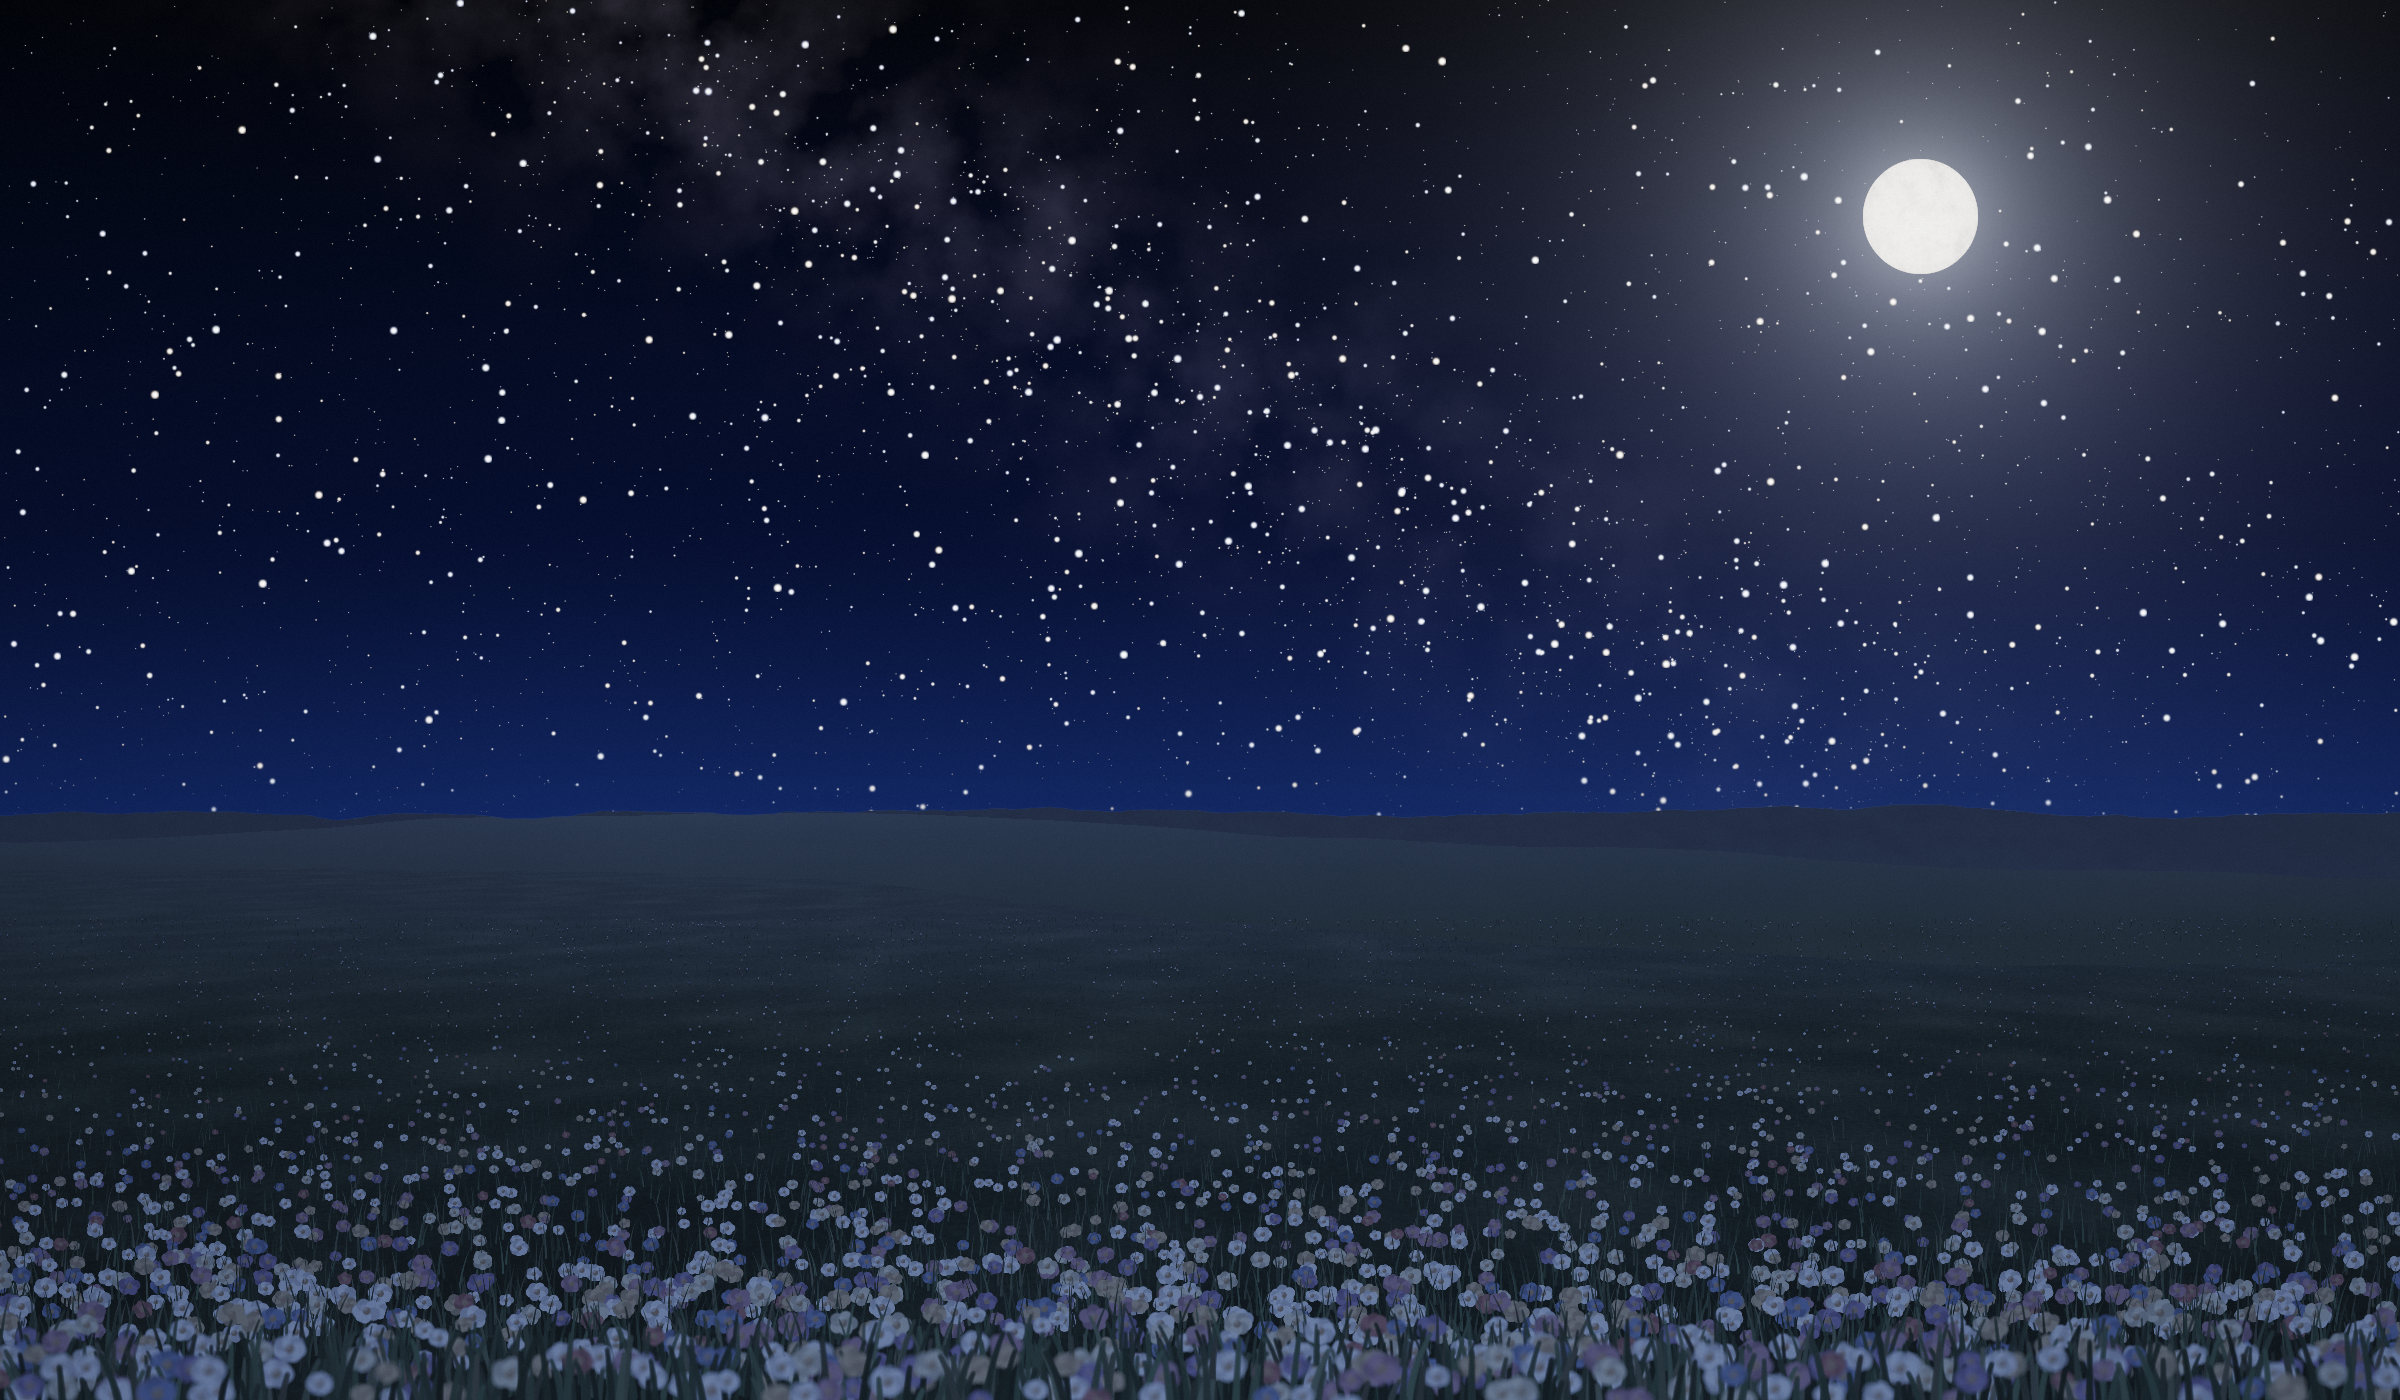
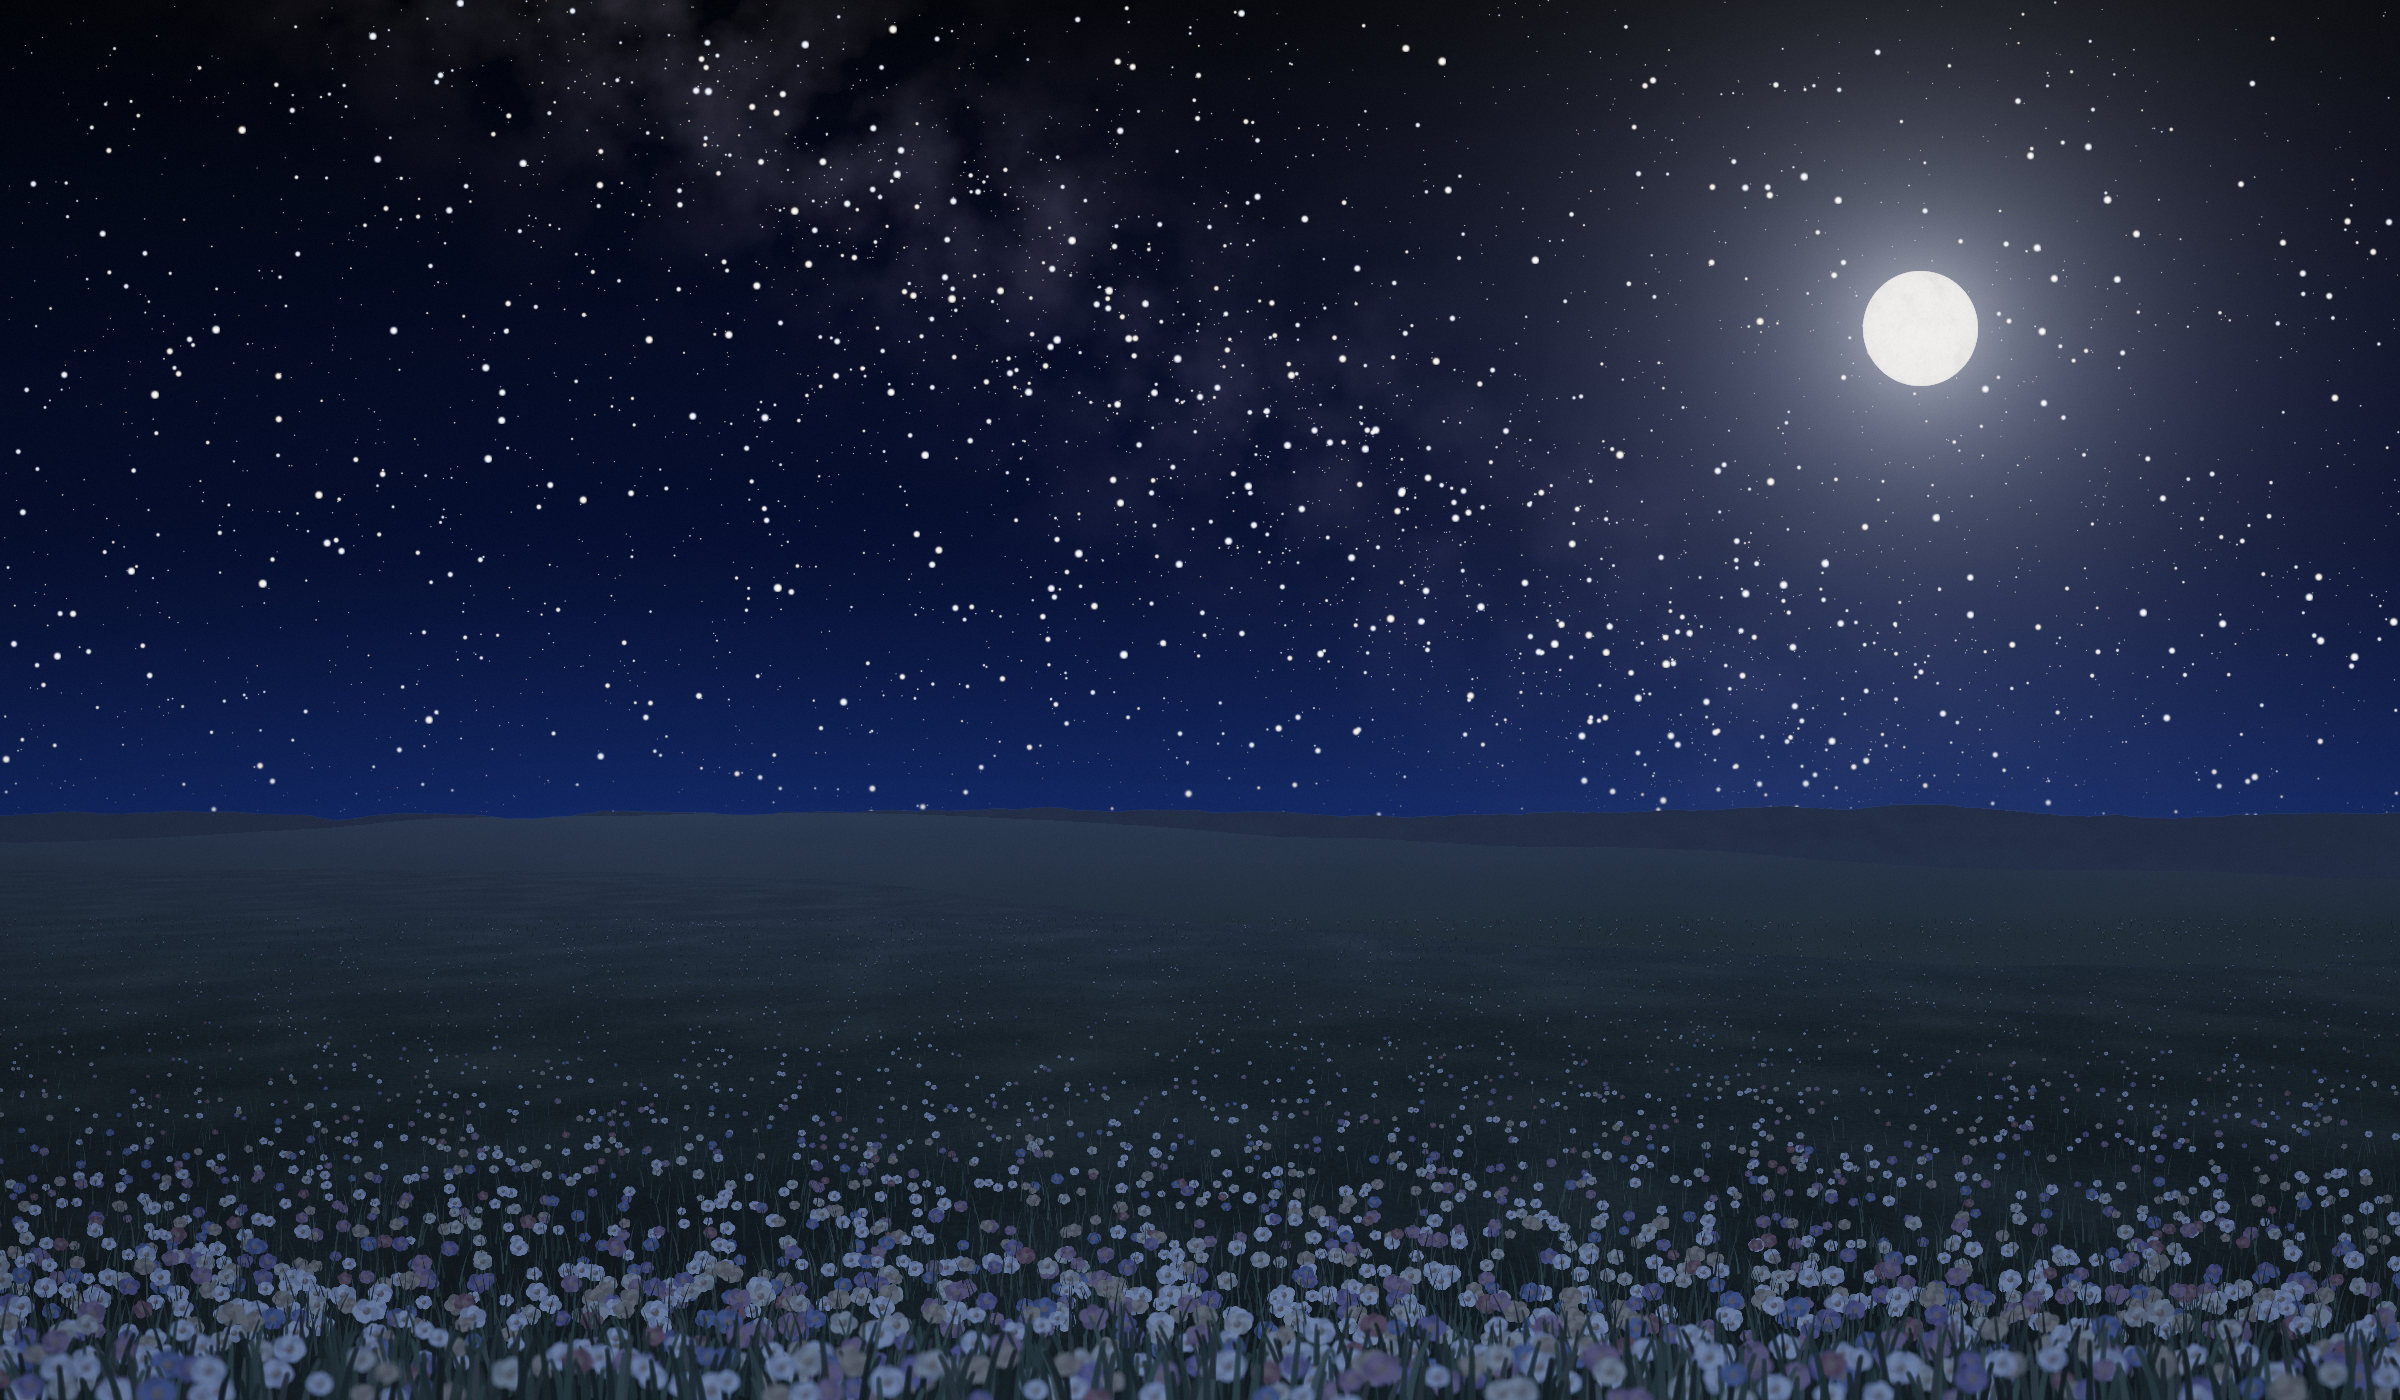
Let the meadow fill the whole background, day and night
The scene now covers the hero edge to edge (and the whole app behind the
sidebar) instead of fading in from the right. A soft veil behind the copy
keeps the text readable; the sun and moon sit lower so the crop never cuts
them, and more of the flowers show.

Claude-Session: https://claude.ai/code/session_015ftdKcfbXQbxwuGXRg3nNj

Changed region(s): [[0.7188, 0.0, 0.875, 0.3993]]

diff --git a/seekr-site/public/styles.css b/seekr-site/public/styles.css
@@ -106,17 +106,16 @@ button { cursor: pointer; }
 .hero h1 > span { display: block; white-space: nowrap; }
 .hero p { font-size: 20px; color: var(--text); max-width: 640px; margin: 0 0 40px; line-height: 1.55; }
 .hero-cta { display: flex; gap: 14px; }
-/* the header art: a blue sky over a field, on the right, fading into the page */
-.sky { position: absolute; inset: 0 0 0 38%; z-index: 0; pointer-events: none;
-  -webkit-mask-image: radial-gradient(120% 95% at 82% 45%, #000 40%, transparent 78%);
-  mask-image: radial-gradient(120% 95% at 82% 45%, #000 40%, transparent 78%); }
-.sky img { position: absolute; inset: 0; width: 100%; height: 100%; object-fit: cover; object-position: 60% 40%; transition: opacity .6s ease; }
+/* the header art: the meadow fills the whole hero, edge to edge; a soft veil
+   behind the copy keeps the text readable, and the bottom melts into the page */
+.sky { position: absolute; inset: 0; z-index: 0; pointer-events: none; overflow: hidden; }
+.sky img { position: absolute; inset: 0; width: 100%; height: 100%; object-fit: cover; object-position: 60% 62%; transition: opacity .6s ease; }
 .sky img.night { opacity: 0; }
 :root[data-theme="dark"] .sky img.day { opacity: 0; }
 :root[data-theme="dark"] .sky img.night { opacity: 1; }
 .sky::after { z-index: 1; }
 .sky-fx { position: absolute; inset: 0; width: 100%; height: 100%; z-index: 2; pointer-events: none; }
-:root[data-theme="light"] .sky::after { background: linear-gradient(90deg, var(--bg) 0%, transparent 38%), linear-gradient(0deg, var(--bg) 0%, transparent 26%); }
+:root[data-theme="light"] .sky::after { background: linear-gradient(90deg, rgba(247, 248, 251, .82) 0%, rgba(247, 248, 251, .55) 34%, rgba(247, 248, 251, 0) 62%), linear-gradient(0deg, var(--bg) 0%, rgba(247, 248, 251, 0) 8%); }
 :root[data-theme="light"] .grid-lines { background-image: linear-gradient(90deg, rgba(11, 15, 26, .05) 1px, transparent 1px); }
 .theme-btn { width: 38px; height: 38px; border-radius: 999px; border: 1px solid var(--line); background: var(--card); color: var(--ink); display: inline-flex; align-items: center; justify-content: center; }
 .theme-btn:hover { border-color: var(--line-2); }
@@ -124,7 +123,8 @@ button { cursor: pointer; }
 .theme-btn .i-moon { display: none; }
 :root[data-theme="dark"] .theme-btn .i-sun { display: none; }
 :root[data-theme="dark"] .theme-btn .i-moon { display: block; }
-.sky::after { content: ''; position: absolute; inset: 0; background: linear-gradient(90deg, var(--bg) 0%, transparent 42%), linear-gradient(0deg, var(--bg) 0%, transparent 34%); }
+.sky::after { content: ''; position: absolute; inset: 0; background: linear-gradient(90deg, rgba(10, 10, 10, .7) 0%, rgba(10, 10, 10, .42) 34%, rgba(10, 10, 10, 0) 62%), linear-gradient(0deg, var(--bg) 0%, rgba(10, 10, 10, 0) 8%); }
+.grid-lines { display: none; }
 .grid-lines { position: absolute; inset: 0; z-index: 0; pointer-events: none; background-image: linear-gradient(90deg, rgba(255, 255, 255, .045) 1px, transparent 1px); background-size: 240px 100%; background-position: 60px 0;
   -webkit-mask-image: linear-gradient(180deg, #000, transparent 85%); mask-image: linear-gradient(180deg, #000, transparent 85%); }
 .hero-copy { position: relative; z-index: 1; }
@@ -297,7 +297,9 @@ textarea.input { height: auto; padding: 12px 14px; resize: vertical; }
 .side-foot { display: flex; gap: 4px; padding: 10px 2px 0; }
 
 .main { position: relative; overflow: hidden; min-height: 100vh; }
-.main .sky { inset: -6% -12% 0 46%; opacity: .85; -webkit-mask-image: radial-gradient(110% 100% at 85% 45%, #000 45%, transparent 80%); mask-image: radial-gradient(110% 100% at 85% 45%, #000 45%, transparent 80%); }
+.main .sky { position: fixed; left: 210px; right: 0; top: 0; bottom: 0; }
+.main .sky::after { background: radial-gradient(60% 75% at 50% 42%, rgba(10, 10, 10, .55) 0%, rgba(10, 10, 10, 0) 80%); }
+:root[data-theme="light"] .main .sky::after { background: radial-gradient(60% 75% at 50% 42%, rgba(247, 248, 251, .7) 0%, rgba(247, 248, 251, 0) 80%); }
 .main .grid-lines { background-size: 140px 100%; }
 .stage { position: relative; z-index: 1; max-width: 640px; margin: 0 auto; padding: 70px 24px 80px; }
 .stage-logo { display: flex; align-items: baseline; gap: 4px; font-size: 42px; font-weight: 700; letter-spacing: -.02em; margin-bottom: 6px; }
@@ -461,10 +463,11 @@ textarea.input { height: auto; padding: 12px 14px; resize: vertical; }
 @media (max-width: 1100px) {
   .hero h1 { font-size: 52px; }
   .prices { position: relative; right: auto; bottom: auto; width: 100%; margin-top: 40px; }
-  .sky { inset: 0 0 auto 0; height: 60%; -webkit-mask-image: linear-gradient(180deg, #000 30%, transparent); mask-image: linear-gradient(180deg, #000 30%, transparent); opacity: .55; }
-  .sky::after { background: linear-gradient(0deg, var(--bg) 0%, transparent 50%); }
+  .sky::after { background: linear-gradient(180deg, rgba(10, 10, 10, .55) 0%, rgba(10, 10, 10, .35) 55%, var(--bg) 100%); }
+  :root[data-theme="light"] .sky::after { background: linear-gradient(180deg, rgba(247, 248, 251, .68) 0%, rgba(247, 248, 251, .4) 55%, var(--bg) 100%); }
 }
 @media (max-width: 860px) {
+  .main .sky { left: 0; }
   .nav-links { display: none; position: absolute; top: 90px; left: 0; right: 0; background: var(--bg); border-bottom: 1px solid var(--line); flex-direction: column; gap: 0; padding: 8px 16px 16px; }
   .nav-links.open { display: flex; }
   .nav-links a { padding: 12px 0; }

diff --git a/seekr-site/scripts/make-scene.js b/seekr-site/scripts/make-scene.js
@@ -13,7 +13,7 @@ const jpeg = require('jpeg-js');
 
 const W = 2400, H = 1400;
 const HORIZON = Math.round(H * 0.6);
-const SUN = { x: W * 0.8, y: H * 0.14 };
+const SUN = { x: W * 0.8, y: H * 0.22 };
 
 /* ---------- noise ---------- */
 let seed = 1337;
